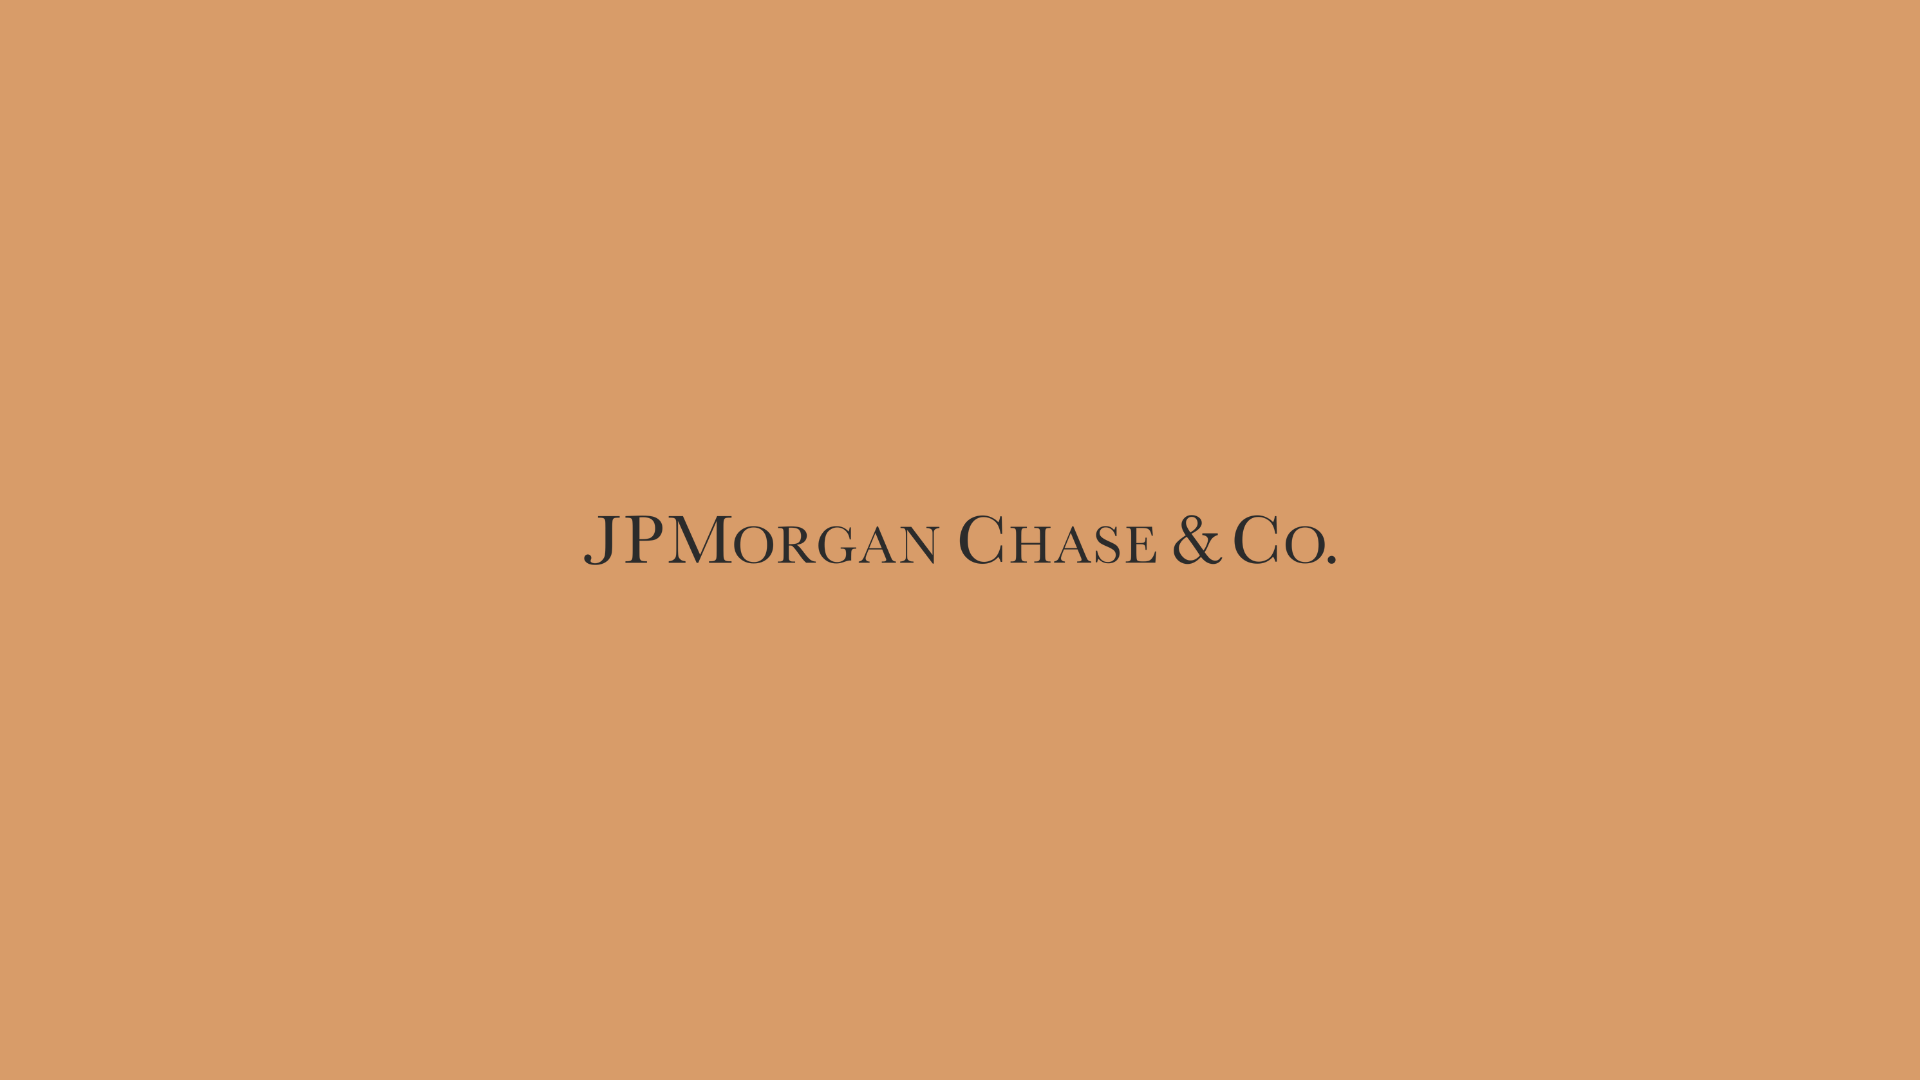
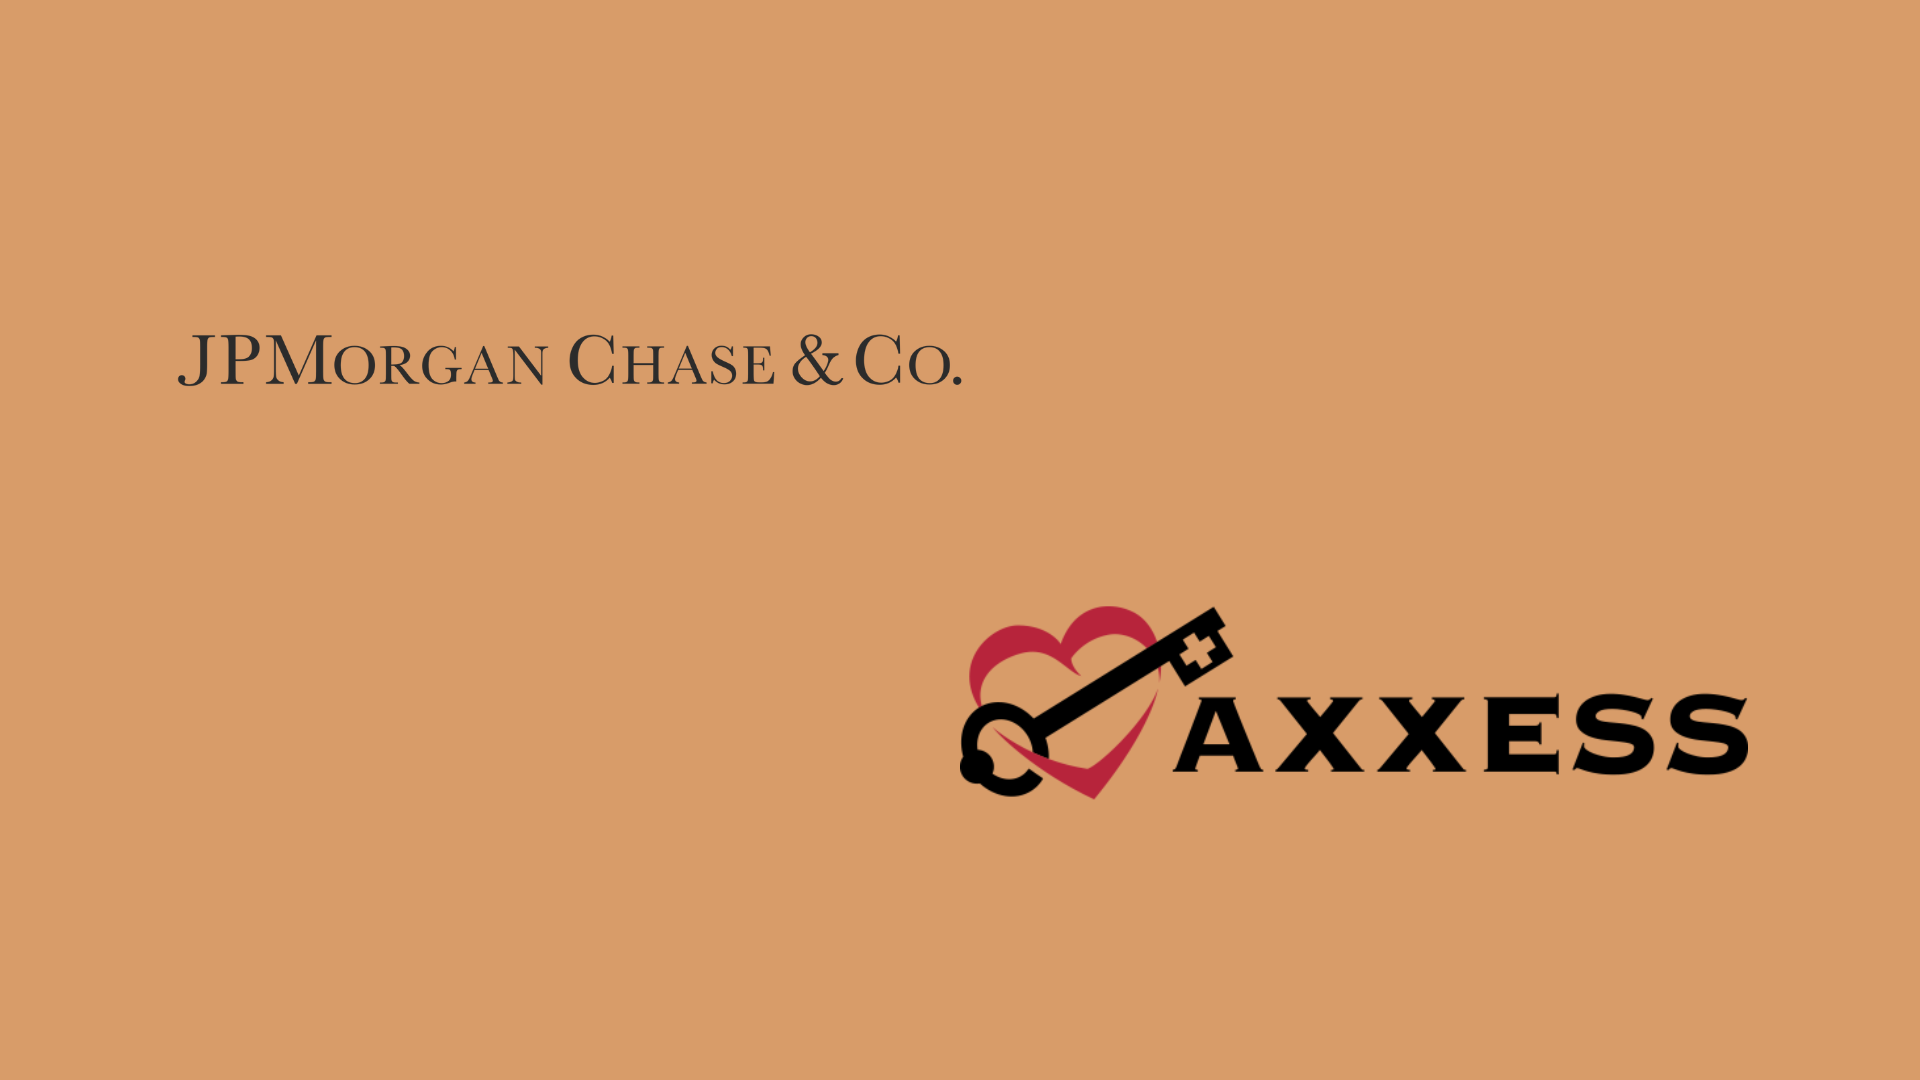
updated sponsor images

Changed region(s): [[0.5, 0.55, 0.9062, 0.7333], [0.0938, 0.3056, 0.5, 0.3667], [0.3125, 0.4583, 0.6875, 0.5194]]

diff --git a/wehack.css b/wehack.css
@@ -919,27 +919,34 @@ body {
 }
 
 .slide:nth-child(1) {
-  background-image: url(/images/sponsors/plat_sponsors.png);
+  background-image: url(/images/sponsors//toyota_sponsor.png);
   background-repeat: no-repeat;
   background-size: 100%;
   margin: 0;
 }
 
 .slide:nth-child(2) {
-  background-image: url(/images/sponsors/gold_sponsors.png);
+  background-image: url(/images/sponsors/plat_sponsors.png);
   background-repeat: no-repeat;
   background-size: 100%;
   margin: 0;
 }
 
 .slide:nth-child(3) {
-  background-image: url(/images/sponsors/silver_sponsors.png);
+  background-image: url(/images/sponsors/gold_sponsors.png);
   background-repeat: no-repeat;
   background-size: 100%;
   margin: 0;
 }
 
 .slide:nth-child(4) {
+  background-image: url(/images/sponsors/silver_sponsors.png);
+  background-repeat: no-repeat;
+  background-size: 100%;
+  margin: 0;
+}
+
+.slide:nth-child(5) {
   background-image: url(/images/sponsors/bronze_sponsors.png);
   background-repeat: no-repeat;
   background-size: 100%;

diff --git a/index.html b/index.html
@@ -320,7 +320,8 @@
     <li class="slide">
     </li>
     <li class="slide">
-
+    </li>
+    <li class="slide">
     </li>
   </ul>
 </section>
